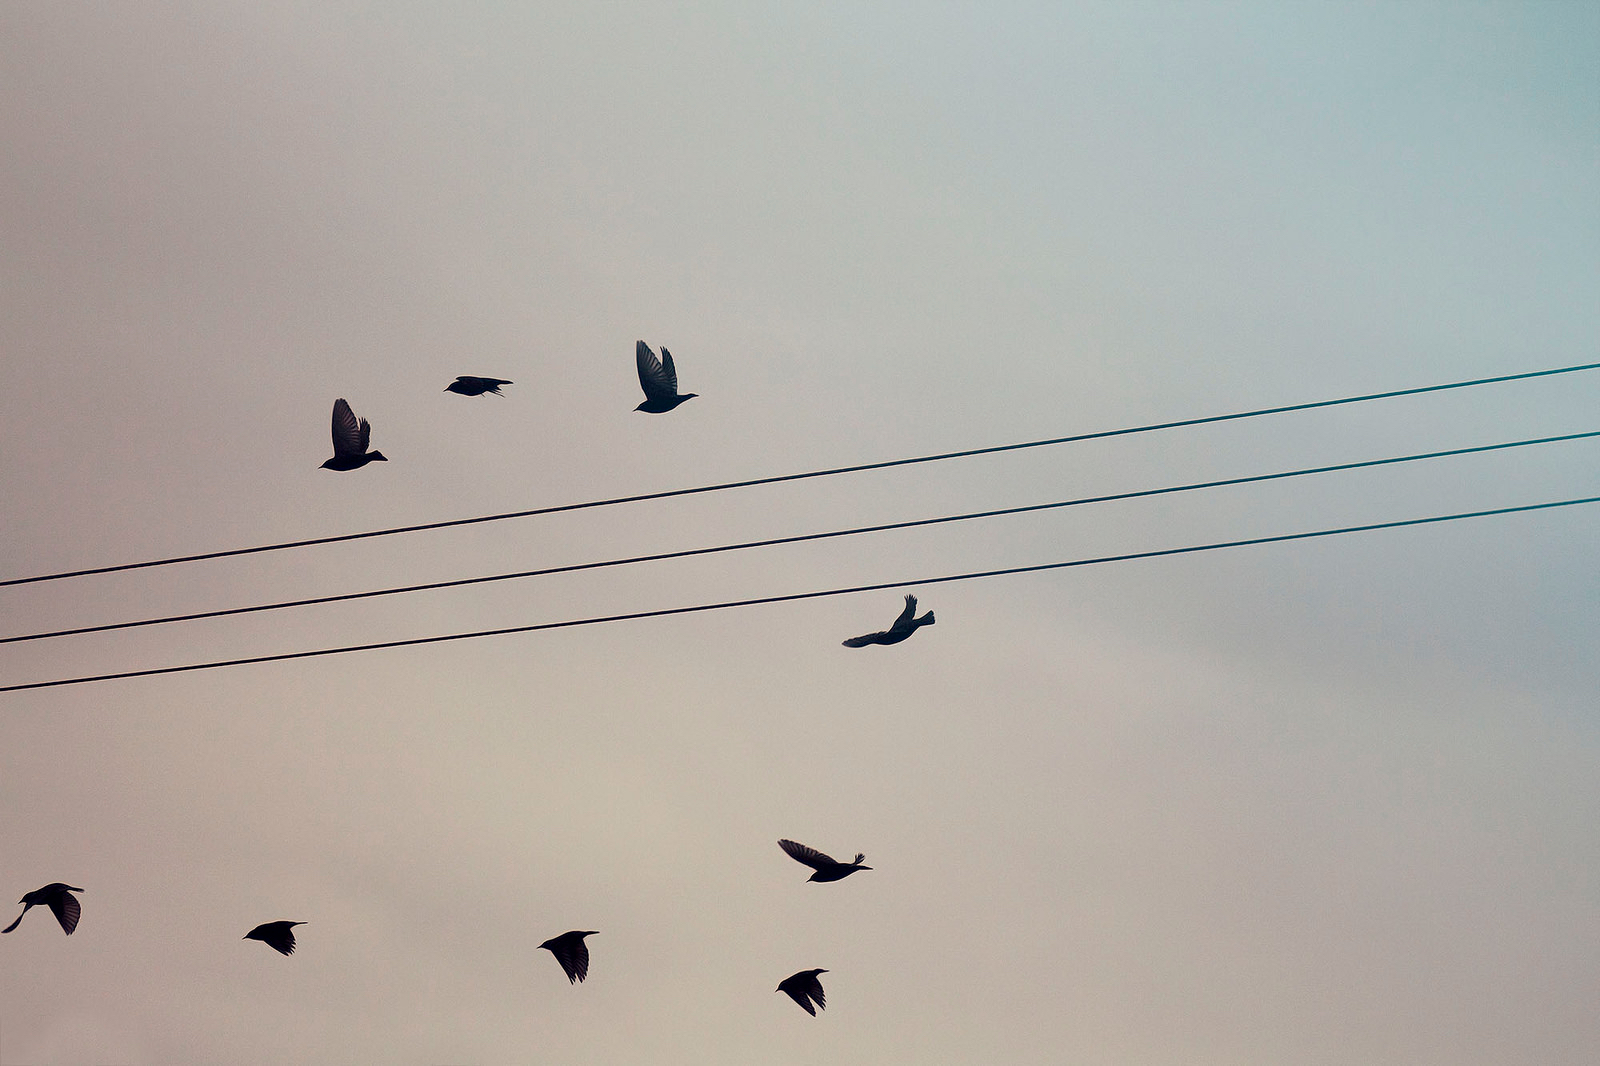
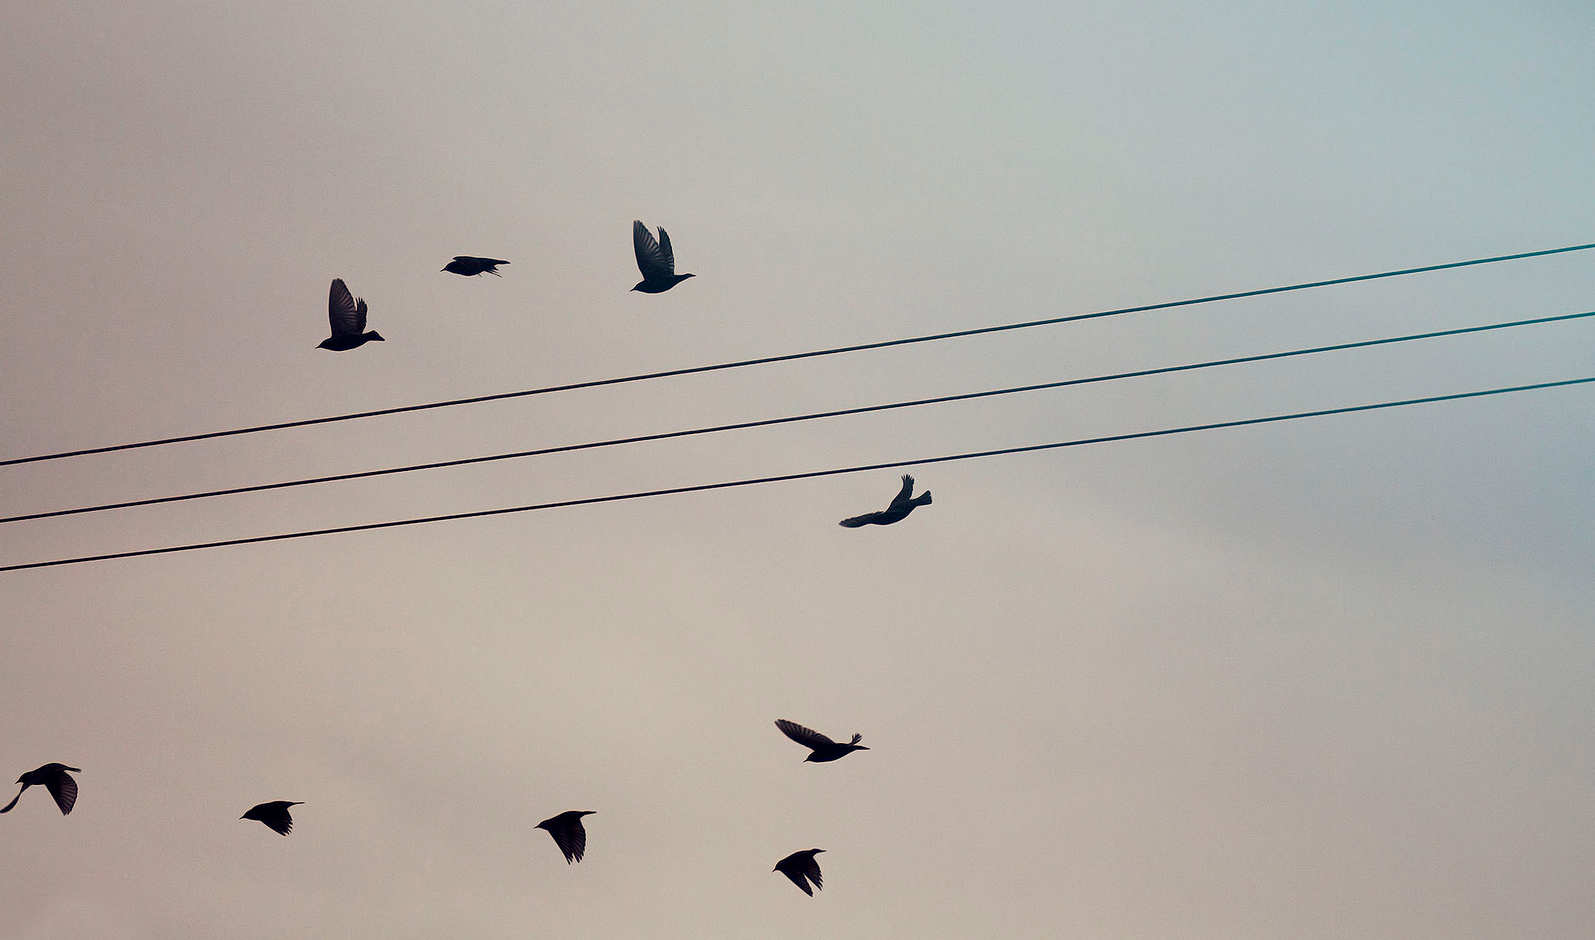
fixed bugs and styling

diff --git a/styles.css b/styles.css
@@ -4,44 +4,39 @@
 
 * {
   margin: 0;
-}
-
-li {
-  list-style: none;
+  margin-bottom: 0;
+  outline: none;
 }
 
 h1 {
   font-family: "Arvo", serif;
-  color: #1e151a;
-  font-size: 6vw;
-  padding-top: 2vw;
-  margin-left: 4vw;
+  color: #d0d5ce;
+  font-size: 5vw;
+  padding-top: 1vw;
+  margin-left: 14vw;
 }
 
 body {
-  background: #bdb4a5;
-  background-image: linear-gradient(to right, #a99690, #a9a09b);
+    overflow: hidden;
 }
 
-.top{
+.top {
   background: url("images/birds.jpg") top no-repeat;
-  background-size: cover;
+  background-size: contain;
   background-position: fixed;
   width: 100vw;
-  height: 80vw;
-  margin: none;
-  position: absolute;
-  z-index: -1;
+  height: 100vw;
+  position: relative;
+  z-index: 1;
 }
 
 #results-container {
   display: grid;
   grid-template-columns: 25% 25% 25% 25%;
-  width: 95vw;
+  width: 75vw;
   height: 40vw;
-  padding-top: 3vw;
-  margin-left: 2vw;
-  margin-right: 2vw;
+  margin-left: 13vw;
+  margin-right: 10vw;
 }
 
 .album-art img {
@@ -50,29 +45,35 @@ body {
 
 input {
   font-family: "Lato", sans-serif;
-  font-size: 2vw;
+  font-size: 1.75vw;
   color: #a1a29d;
   text-align: center;
   border: none;
   border-radius: .25vw;
-  width: 29vw;
-  height: 3vw;
-  margin-left: 4vw;
-  margin-top: 1vw;
-  background: #ced2cb;
+  width: 24.2vw;
+  height: 2.3vw;
+  margin-left: 14vw;
+  background: #d0d5ce;
 }
 
 input::placeholder {
   font-family: "Lato", sans-serif;
-  font-size: 2vw;
+  font-size: 1.8vw;
   color: #a1a29d;
   text-align: center;
+  outline: none;
 }
 
  audio {
   width: 29vw;
-  padding-top: 1.5vw;
-  margin-left: 4vw;
+  height: 1vw;
+  margin: none;
+  padding: none;
+  visibility: hidden;
+ }
+
+ .player {
+   height: 1vw;
  }
 
 audio::-webkit-media-controls-panel {
@@ -86,40 +87,95 @@ li {
   background-image: center;
   background-size: cover;
   font-family: "Lato", sans-serif;
-  font-size: 1.5vw;
+  font-size: 1.2vw;
   color: #4d2f31;
-  padding: .5vw;
+}
+
+.band-name {
+  font-family: "Arvo", serif;
+  font-size: 1.3vw;
+  font-weight: 700;
 }
 
 .album-art {
-  padding-top: 2vw;
-  padding-right: 1vw;
+  padding-top: 1.3vw;
+
 }
 
 ul {
-  background: rgba(189, 116, 119, 0.3);
-  margin: 2vw;
-  border-radius: 2vw;
-  padding-left: 1.5vw;
+  background: rgba(255, 238, 233, 0.5);
+  display: flex;
+  flex-flow: column nowrap;
+  justify-content: space-around;
+  width: 15vw;
+  height: 19vw;
+  margin: 1vw;
+  border-radius: 1vw;
+  padding-left: 1vw;
+  padding-right: 1.5vw;
+  padding-bottom: 1vw;
   text-align: center;
+  list-style: none;
 }
 
 .fa-play {
-  color: #a1a29d;
+  color: #ffeee9;
+  padding-left: .9vw;
+  padding-top: .5vw;
+  pointer-events: none;
+}
+
+.fa-pause {
+  color: #ffeee9;
+  padding-left: .35vw;
+  pointer-events: none;
 }
 
 button {
-  font-size: 2.5vw;
-  background-color: #4d2f31;
-  width: 5vw;
-  height: 5vw;
-  padding-left: 1.25vw;
-  border: solid 4px #91595c;
-  border-radius: .5vw;
-  margin-bottom: 1.5vw;
+  width: 8vw;
+  height: 8vw;
+  border-radius: 50%;
+  margin-left: 4vw;
+  margin-top: -19.5vw;
+  border: none;
+  outline: none;
+  opacity: 0;
+  position: absolute;
+  z-index: 2;
 }
 
+button:hover {
+  font-size: 4vw;
+  background-color: rgba(255, 238, 233, .6);
+  width: 11vw;
+  height: 11vw;
+  border-radius: 50%;
+  margin-left: 4vw;
+  margin-top: -19.9vw;
+  border: solid 9px #ffeee9;
+  outline: none;
+  opacity: 1;
+  position: absolute;
+  z-index: 2;
+}
+
+/*button:active {
+  font-size: 4vw;
+  background-color: rgba(255, 238, 233, .6);
+  width: 10.8vw;
+  height: 10.8vw;
+  border-radius: 50%;
+  margin-left: 4vw;
+  margin-top: -18.3vw;
+  border: solid 7px #ffeee9;
+  outline: none;
+  opacity: 1;
+  position: absolute;
+  z-index: 1;
+}*/
+
 .avatar {
-  width: 13vw;
-  height: 12.5vw;
+  width: 10vw;
+  height: 10vw;
+  background-color: #dfcbc9;
 }

diff --git a/main.js b/main.js
@@ -18,13 +18,6 @@ input.addEventListener("keypress", function(e) {
   }
 })
 
-// button.onclick = function() {
-//   var string = document.getElementById("inputBar").value;
-//   fetchRequest(string);
-//   document.getElementById("results-container").innerHTML = ""
-//   document.getElementById("inputBar").value = ""
-// };
-
 function fetchRequest(string) {
   fetch ("https://api.soundcloud.com/tracks/?client_id=86b6a66bb2d863f5d64dd8a91cd8de94&q=" + string)
   .then(
@@ -35,14 +28,12 @@ function fetchRequest(string) {
       }
         response.json().then(function(data) {
           var returnedData = data;
-          insertPlay(returnedData);
+          insert(returnedData);
       })
     })
 };
 
-
-
-function insertPlay(data) {
+function insert(data) {
       for (let i=0; i < 8; i++) {
         artworkURL = data[i].artwork_url;
         if (artworkURL == null) {
@@ -51,30 +42,38 @@ function insertPlay(data) {
           artworkURL = `${data[i].artwork_url}`
         }
         var markup = `
-          <ul class="track-box">
-            <li class="album-art"><img class="avatar" src="${artworkURL}"></li>
-            <li class="band-name">${data[i].user.username}</li>
-            <li class="song-title">${data[i].title}</li>
-            <li class="player">
-              <button class="play-button" value="${data[i].stream_url}/?client_id=86b6a66bb2d863f5d64dd8a91cd8de94"><i class="fa fa-play" aria-hidden="true"></i></button></audio>
-            </li>
-          </ul>
+          <div class="grid-item">
+            <ul class="track-box">
+              <li class="album-art"><img class="avatar" src="${artworkURL}"></li>
+              <li class="band-name">${data[i].user.username}</li>
+              <li class="song-title">${data[i].title}</li>
+            </ul>
+            <button class="play-button" value="${data[i].stream_url}/?client_id=86b6a66bb2d863f5d64dd8a91cd8de94"><i class="fa fa-play" aria-hidden="true"></i></button>
+          </div>
           `
         results.innerHTML += markup;
+      }
     }
-    avatar = document.getElementsByClassName("avatar");
-    for (let i = 0; avatar.length; i++ ) {
-      if (avatar[i].src == "images/record1.png"){
-        avatar[i].setAttribute("class", "placeholderAv");
-    }
-  }
-  }
-    playButton = document.getElementsByClassName("play-button");
-    for (let i = 0; i < playButton.length; i++) {
-      var streamURL = playButton[i].value;
-      playButton[i].addEventListener("click", function(event) {
-        document.getElementById("audio").setAttribute("src", streamURL)
-        document.getElementById("audio").play();
+    results.addEventListener("click", function(e) {
+      if (e.target && e.target.nodeName == "BUTTON") {
+        let url = e.target.value;
+        let player = document.getElementById("audio");
+          if (player.className == "pause") {
+
+            player.removeAttribute("class");
+            player.classList.add("play");
+            player.removeAttribute("src");
+            player.setAttribute("src", url);
+            e.target.innerHTML = null
+            e.target.innerHTML = "<i class=\"fa fa-pause\" aria-hidden=\"true\"></i>"
+            player.play();
+          } else if (player.className == "play") {
+            player.removeAttribute("class");
+            player.classList.add("pause");
+            e.target.innerHTML = null
+            e.target.innerHTML = "<i class=\"fa fa-play\" aia-hidden=\"true\"></i>"
+            player.pause();
+          }
+      }
     })
-  }
 })();

diff --git a/index.html b/index.html
@@ -18,7 +18,7 @@
         <!-- <button id="button"></button> -->
       </section>
       <section class="player">
-        <audio class="music-player" controls="controls" src="" id="audio"></audio>
+        <audio class="pause" controls="controls" src="" id="audio"></audio>
       </section>
       <div class="grid-container">
         <div id="results-container">
